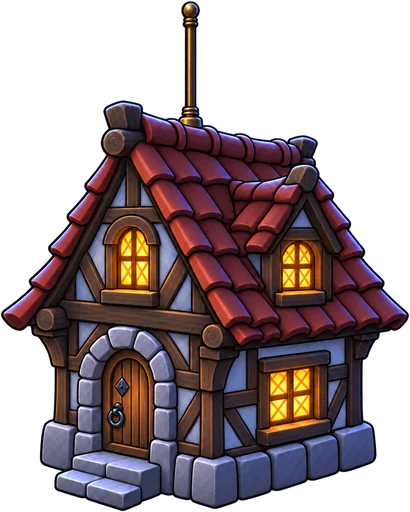
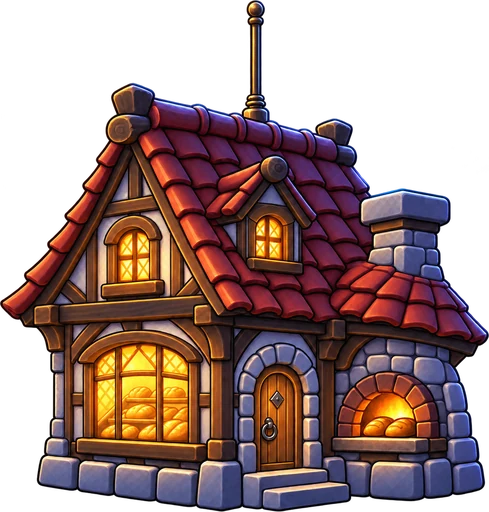
Карта A1: +15 нових будинків (по 5 на Європу, США, Латинську Америку), кілька варіантів будинку на рівень; два дублі коттеджів замінено
Claude-Session: https://claude.ai/code/session_01XfhK1phibUu6EL71j1qe9o

diff --git a/app/game-map/engine.ts b/app/game-map/engine.ts
@@ -144,7 +144,7 @@ function esc(s) { return String(s ?? '').replace(/[&<>"']/g, (c) => ({ '&': '&am
 
 // Версія даних карти: браузер кешує файли карти на тиждень, тож при зміні
 // geo.json число треба збільшити, інакше люди бачитимуть стару.
-const GEO_VERSION = 4;
+const GEO_VERSION = 5;
 
 export function mountGameMap(root, opts) {
   const base = opts.base || '/game-map/v2';
@@ -274,6 +274,9 @@ export function mountGameMap(root, opts) {
   let baseCache = null; // { key, canvas }
   let flagMeta = {};
   let noForest = false;
+  // 03.10.2026: у регіональних сетах на рівень може бути кілька будинків
+  // (level-03, level-03-b…): компанія бере один за хешем id, тож вигляд стабільний.
+  let bVar = {};
   const flagCache = {};
   const logoImgs = {};
   const allies = new Map(); // userId -> id запису контакту (для видалення)
@@ -290,7 +293,7 @@ export function mountGameMap(root, opts) {
     await Promise.all(keys.map(async (k) => {
       if (imgs[th][k] || loadingTh[th + k]) return;
       loadingTh[th + k] = 1;
-      const im = await loadImg(styleKeys.has(k) ? `${base}/styles/${style}/${th}/${k}.webp` : `${base}/${th}/${k}.webp`);
+      const im = await loadImg(styleKeys.has(k) ? `${base}/styles/${style}/${th}/${k}.webp?v=${GEO_VERSION}` : `${base}/${th}/${k}.webp`);
       if (im) imgs[th][k] = im;
       delete loadingTh[th + k];
     }));
@@ -756,7 +759,8 @@ export function mountGameMap(root, opts) {
       c._r = { x: c.x, y: c.y - h / 2, w, h };
       return;
     }
-    const k = (c.forest && !noForest ? 'forest/' : 'buildings/') + `level-0${c.l}`;
+    let k = (c.forest && !noForest ? 'forest/' : 'buildings/') + `level-0${c.l}`;
+    if (k.startsWith('buildings/')) { const pool = bVar[c.l]; if (pool && pool.length > 1) k = pool[hash(String(c.id)) % pool.length]; }
     const w = c.w;
     // тень-эллипс под зданием
     ctx.fillStyle = theme === 'dark' ? 'rgba(0,0,0,.35)' : 'rgba(40,50,20,.22)';
@@ -1043,14 +1047,17 @@ export function mountGameMap(root, opts) {
       fetch(`${base}/${region === 'ua' ? 'geo' : 'geo-' + region}.json?v=${GEO_VERSION}`).then((r) => r.json()),
       fetch(`${base}/manifest.json`).then((r) => r.json()),
       fetch(`${base}/flags.json`).then((r) => r.json()).catch(() => ({})),
-      fetch(`${base}/styles/${style}/manifest.json`).then((r) => (r.ok ? r.json() : null)).catch(() => null),
-      fetch(`${base}/styles/${style}/flags.json`).then((r) => (r.ok ? r.json() : null)).catch(() => null),
+      fetch(`${base}/styles/${style}/manifest.json?v=${GEO_VERSION}`).then((r) => (r.ok ? r.json() : null)).catch(() => null),
+      fetch(`${base}/styles/${style}/flags.json?v=${GEO_VERSION}`).then((r) => (r.ok ? r.json() : null)).catch(() => null),
     ]);
     if (styleMan) for (const k in styleMan) { man[k] = styleMan[k]; styleKeys.add(k); }
     // Регіональний сет без лісових будинків -- усі компанії в будинках регіону.
     noForest = styleKeys.has('buildings/level-01') && !styleKeys.has('forest/level-01');
     if (styleFlags) { Object.assign(flagMeta, styleFlags); for (const k in styleFlags) for (const e of styleFlags[k].f) styleKeys.add('flags/' + e[0]); }
     for (const k in flagMeta) for (const e of flagMeta[k].f) man['flags/' + e[0]] = [e[3], e[4]];
+    bVar = {};
+    for (const kk in man) { const m = /^buildings\/level-0(\d)(-[a-z])?$/.exec(kk); if (m) (bVar[m[1]] = bVar[m[1]] || []).push(kk); }
+    for (const l in bVar) bVar[l].sort();
     loadAllies();
     if (destroyed) return;
     cos = layout();
